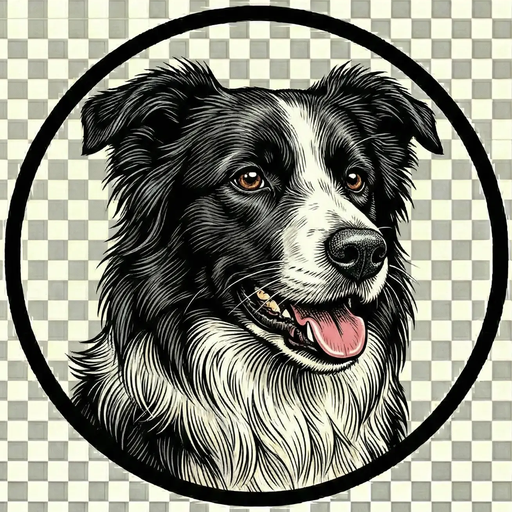
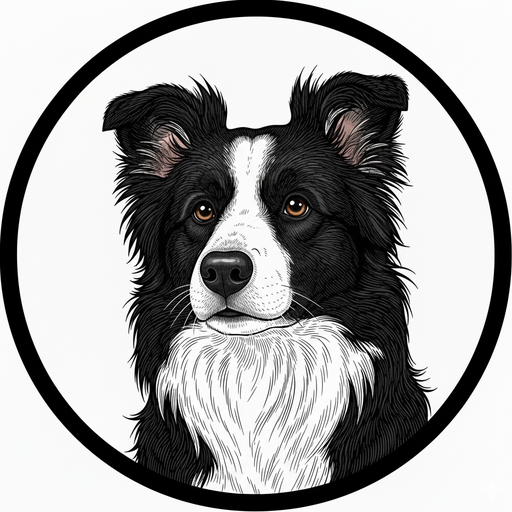
feat: atualizar todos os ícones de raças (v8) - versão final

diff --git a/src/components/breed-icons.tsx b/src/components/breed-icons.tsx
@@ -197,7 +197,7 @@ export function BreedIcon({ breed, className, size = 48 }: BreedIconProps) {
         style={{ width: size, height: size }}
       >
         <Image
-          src={`/breed-icons/${iconFile}.png?v=7`}
+          src={`/breed-icons/${iconFile}.png?v=8`}
           alt={breed || 'Pet'}
           fill
           className="object-cover scale-[1.02]"
